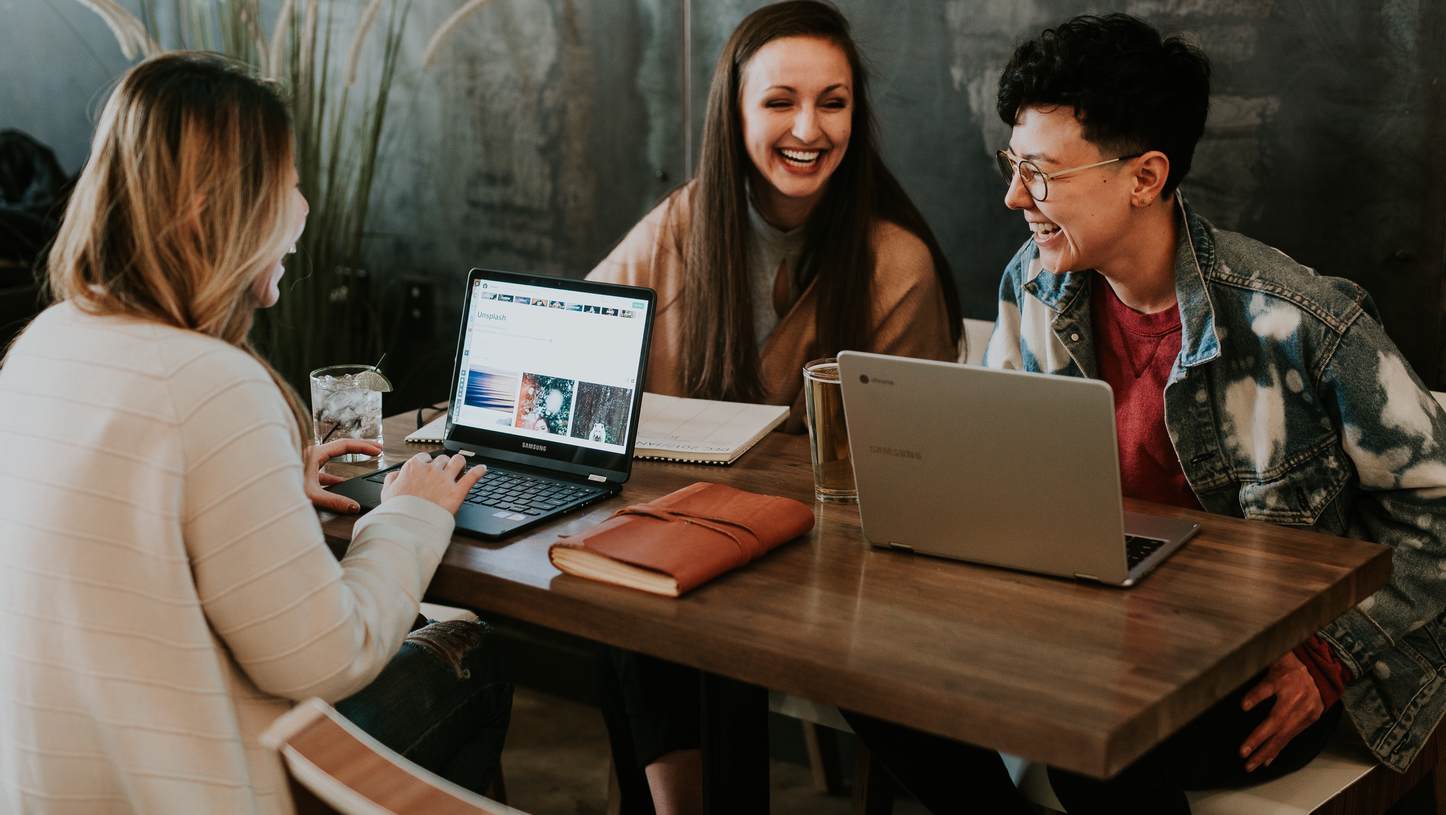
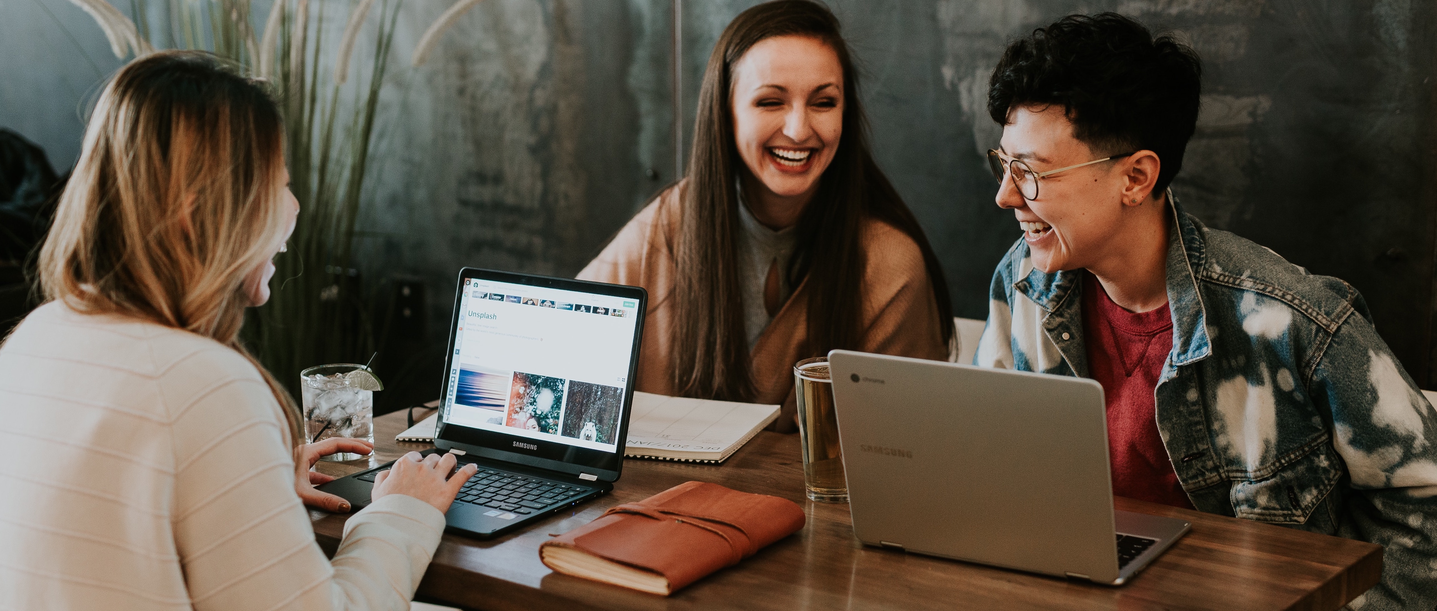
save

diff --git a/Contact.html b/Contact.html
@@ -5,7 +5,7 @@
     <meta name="viewport" content="width=device-width, initial-scale=1, shrink-to-fit=no">
 
     <!--footer  -->
-    <link rel="stylesheet" href="contact.css">
+    <link rel="stylesheet" href="./contact.css">
     <link rel="stylesheet" href="css/footer-distributed-with-address-and-phones.css">
     <link rel="stylesheet" href="https://maxcdn.bootstrapcdn.com/font-awesome/4.2.0/css/font-awesome.min.css">
     <link rel="stylesheet" href="https://fonsts.googleapis.com/css?family=Cookie" type="text/css">
@@ -55,11 +55,27 @@
   </div>
 </nav>
                             <!--Google head > -->
-  <div class="contact-header">
+  <!-- <div class="contact-header">
     <div class="container">
         <h1 id = "centered-contact-header" class="display-5"><b>Make a no Obligtion Appointment Today </b></h1>
     </div>
+  </div> -->
+
+  <div class="bd-example">
+  <div id="carouselExampleCaptions" class="carousel slide" data-ride="carousel">
+    <div class="carousel-inner">
+      <div class="carousel-item active">
+        <img src="assets/contact.jpg" class="d-block w-100" id = "img-carousel"alt="...">
+        <div class="carousel-caption d-none d-md-block">
+          <h1 id = "centered-contact-header" class="display-5"><b>Make a no Obligtion Appointment Today </b></h1>
+
+        </div>
+      </div>
+    </div>
   </div>
+</div>
+
+
   <div id ="jumbo-about"class="jumbotron jumbotron-fluid">
     <div class="container">
       <h1  id = "text-align-center"class="display-3">Free Consultations</h1>

diff --git a/About.html b/About.html
@@ -47,7 +47,7 @@
         </li>
       </ul>
       <span >
-        <h4>+1 (909) 350-2870</h4>
+        <h4>+1 (909) 222-4567</h4>
         <p> Trusted for over 30 years</p>
       </span>
     </div>

diff --git a/Gallery.html b/Gallery.html
@@ -51,7 +51,7 @@
         </li>
       </ul>
       <span >
-        <h4>+1 (909) 350-2870</h4>
+        <h4>+1 (909) 222-4567</h4>
         <p> Trusted for over 30 years</p>
       </span>
     </div>

diff --git a/contact.css b/contact.css
@@ -9,6 +9,11 @@
 	background-color: white;
   text-align: center;
 }
+#img-carousel{
+ height: 480px;
+ object-fit: cover;
+ margin-bottom: 0%;
+}
 .contact-header{
 	height: 500px;
 	width: 100%;

diff --git a/Home.html b/Home.html
@@ -48,7 +48,7 @@
       </li>
     </ul>
     <span >
-      <h4>+1 (909) 350-2870</h4>
+      <h4>+1 (909) 222-4567</h4>
       <p> Trusted for over 30 years</p>
     </span>
   </div>
